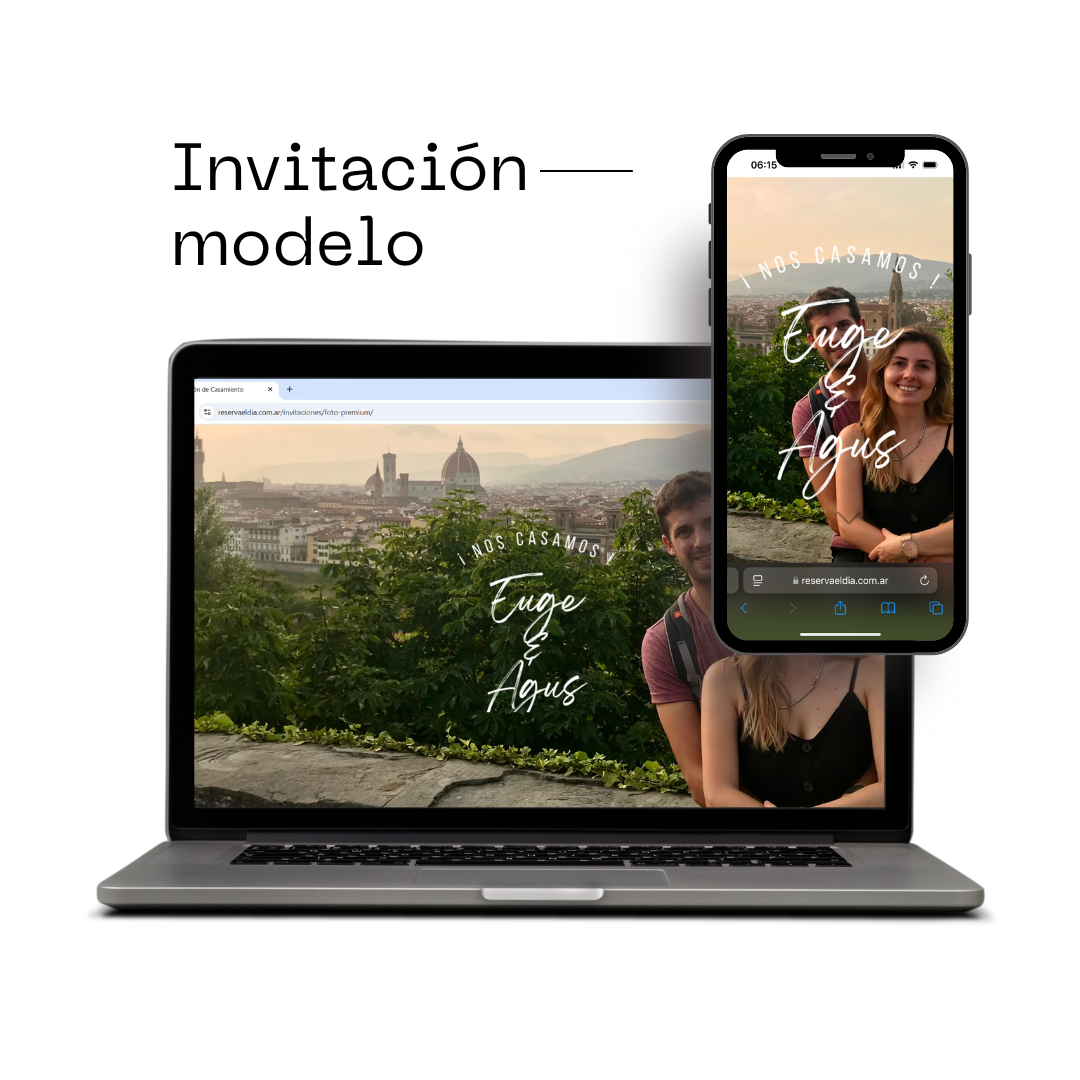
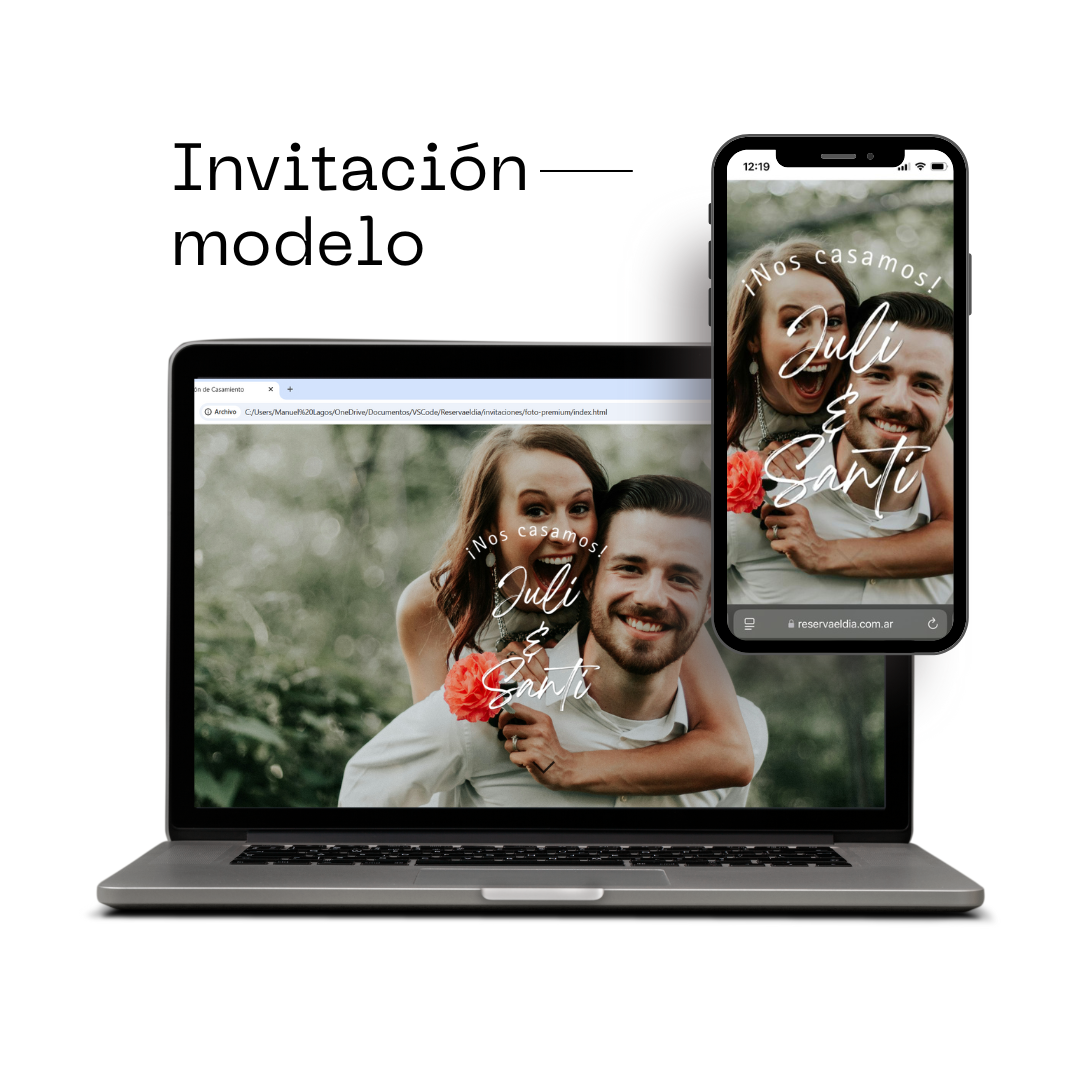
arreglo imagenes y saco contacto

Changed region(s): [[0.1528, 0.1528, 0.8861, 0.7639]]

diff --git a/index.html b/index.html
@@ -299,7 +299,7 @@
     </section>
     
 
-
+<!-- 
     <section id="contacto" class="contacto">
         <div class="container">
             <h2>📞 ¡Hablemos!</h2>
@@ -308,7 +308,7 @@
     
             <p class="contact-subtitle">📍 Trabajamos desde Argentina para todo el mundo.</p>
     
-            <!-- Opciones de Contacto -->
+            <!-- Opciones de Contacto 
             <div class="contact-info">
                 <div class="contact-item">
                     <img src="assets/img/iconos/icono-whatsapp.png" alt="WhatsApp">
@@ -327,9 +327,9 @@
                     </div>
                 </div>
     
-                </div>
+            </div>
         </div>
-    </section>
+    </section>-->
     
 
     <!-- Footer -->

diff --git a/boda/eugeyagus/index.html b/boda/eugeyagus/index.html
@@ -202,9 +202,9 @@
       <div style="display: none;" id="hidden-cbu" class="">          
       <span class="title">Datos Bancarios</span>
           <ul>
-              <li>Caja de Ahorro $ 1111111111111111111</li>
-              <li>CBU: 1111111111111111111</li>
-              <li>Alias: EUGE.Y.AGUS</li>
+              <li>Banco: Santander</li>
+              <li>CBU: 0720281288000036465822</li>
+              <li>Alias: SIMO.BREN.TITA</li>
           </ul> 
       </div>
   </div>
